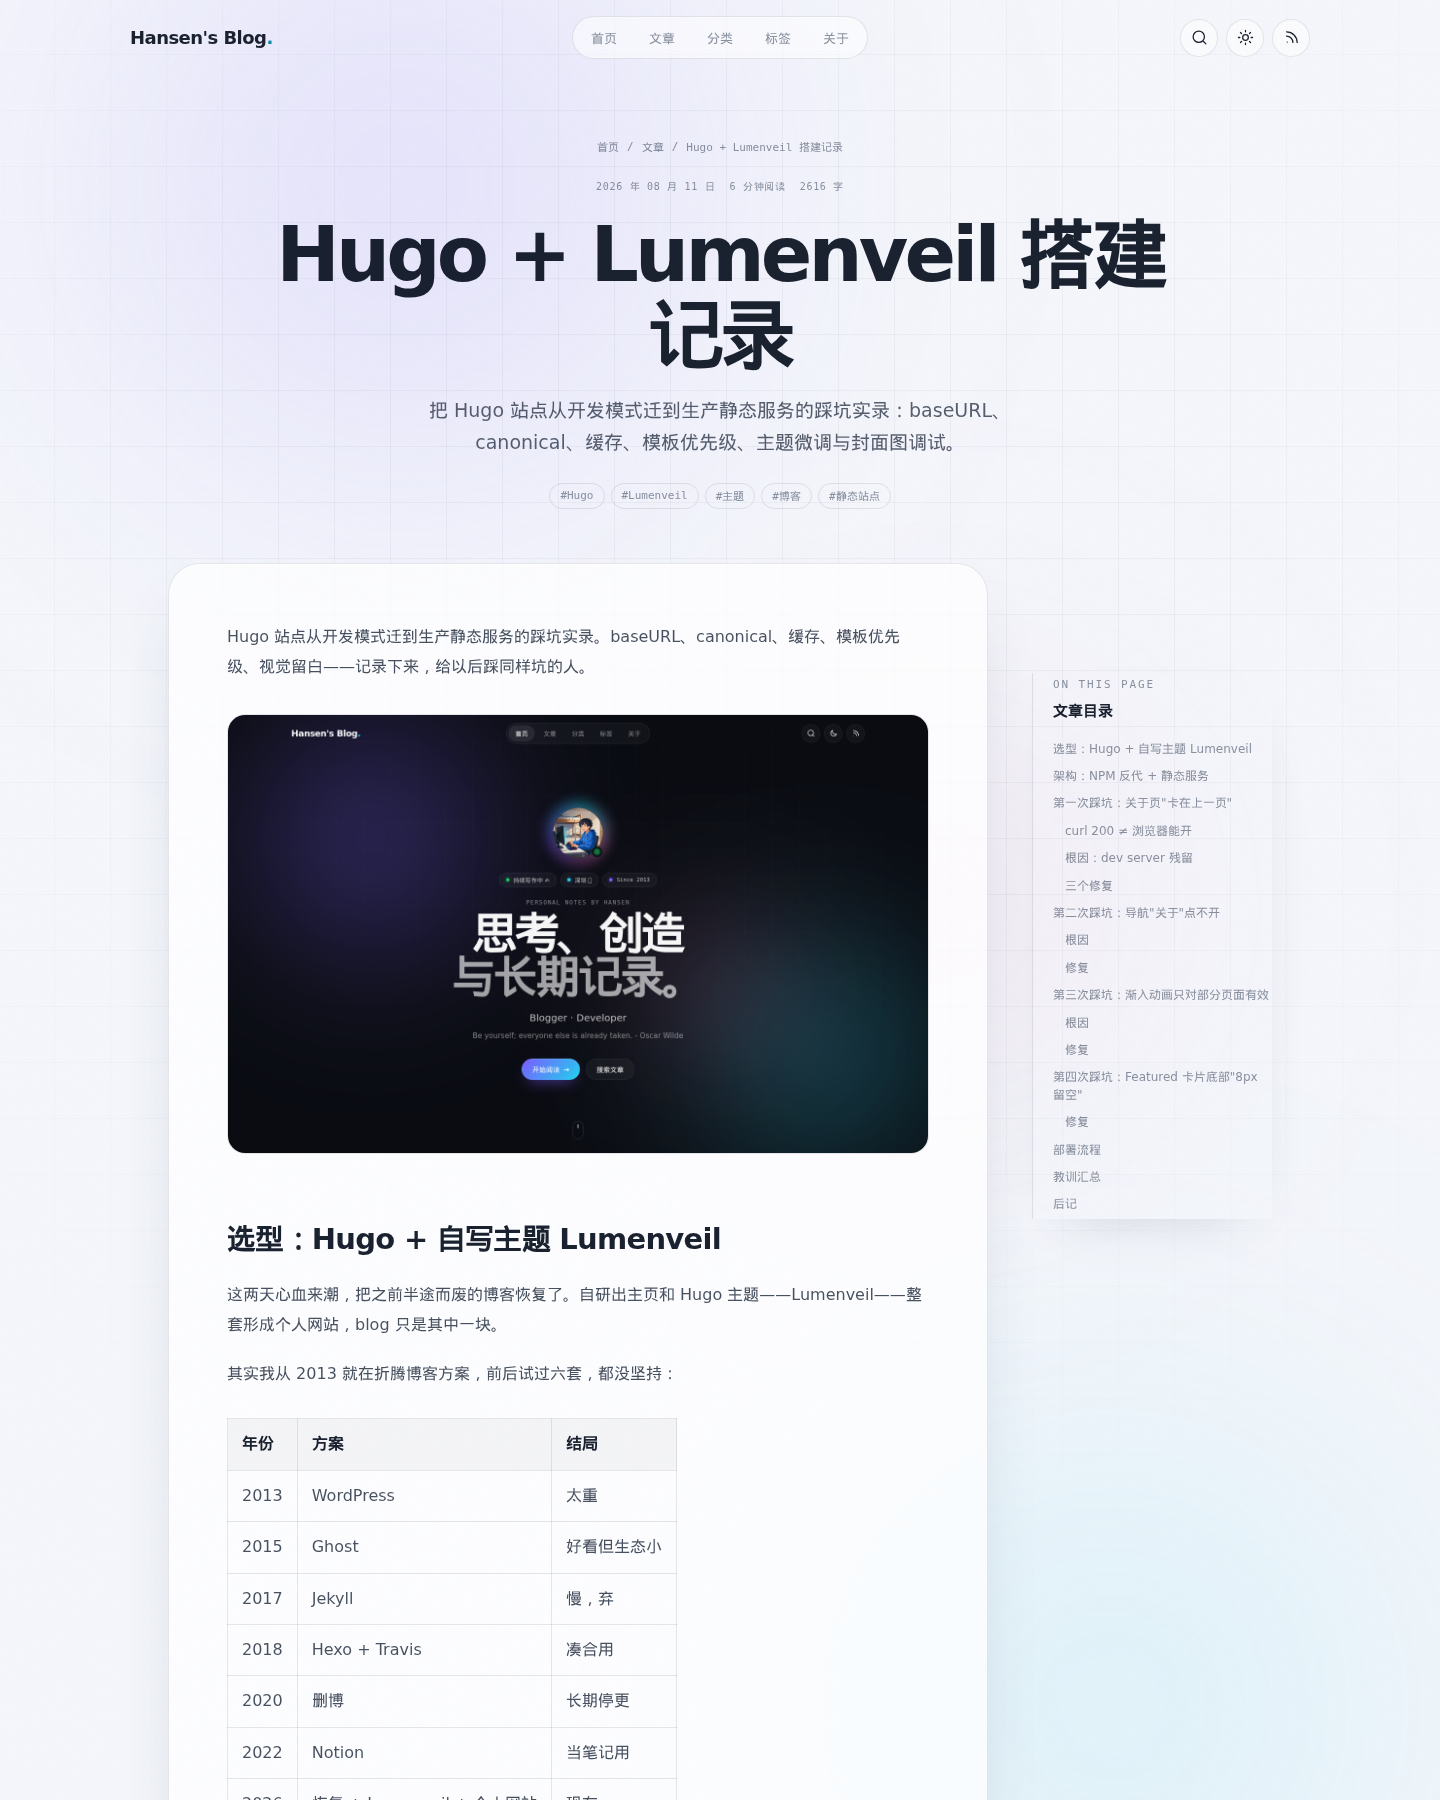
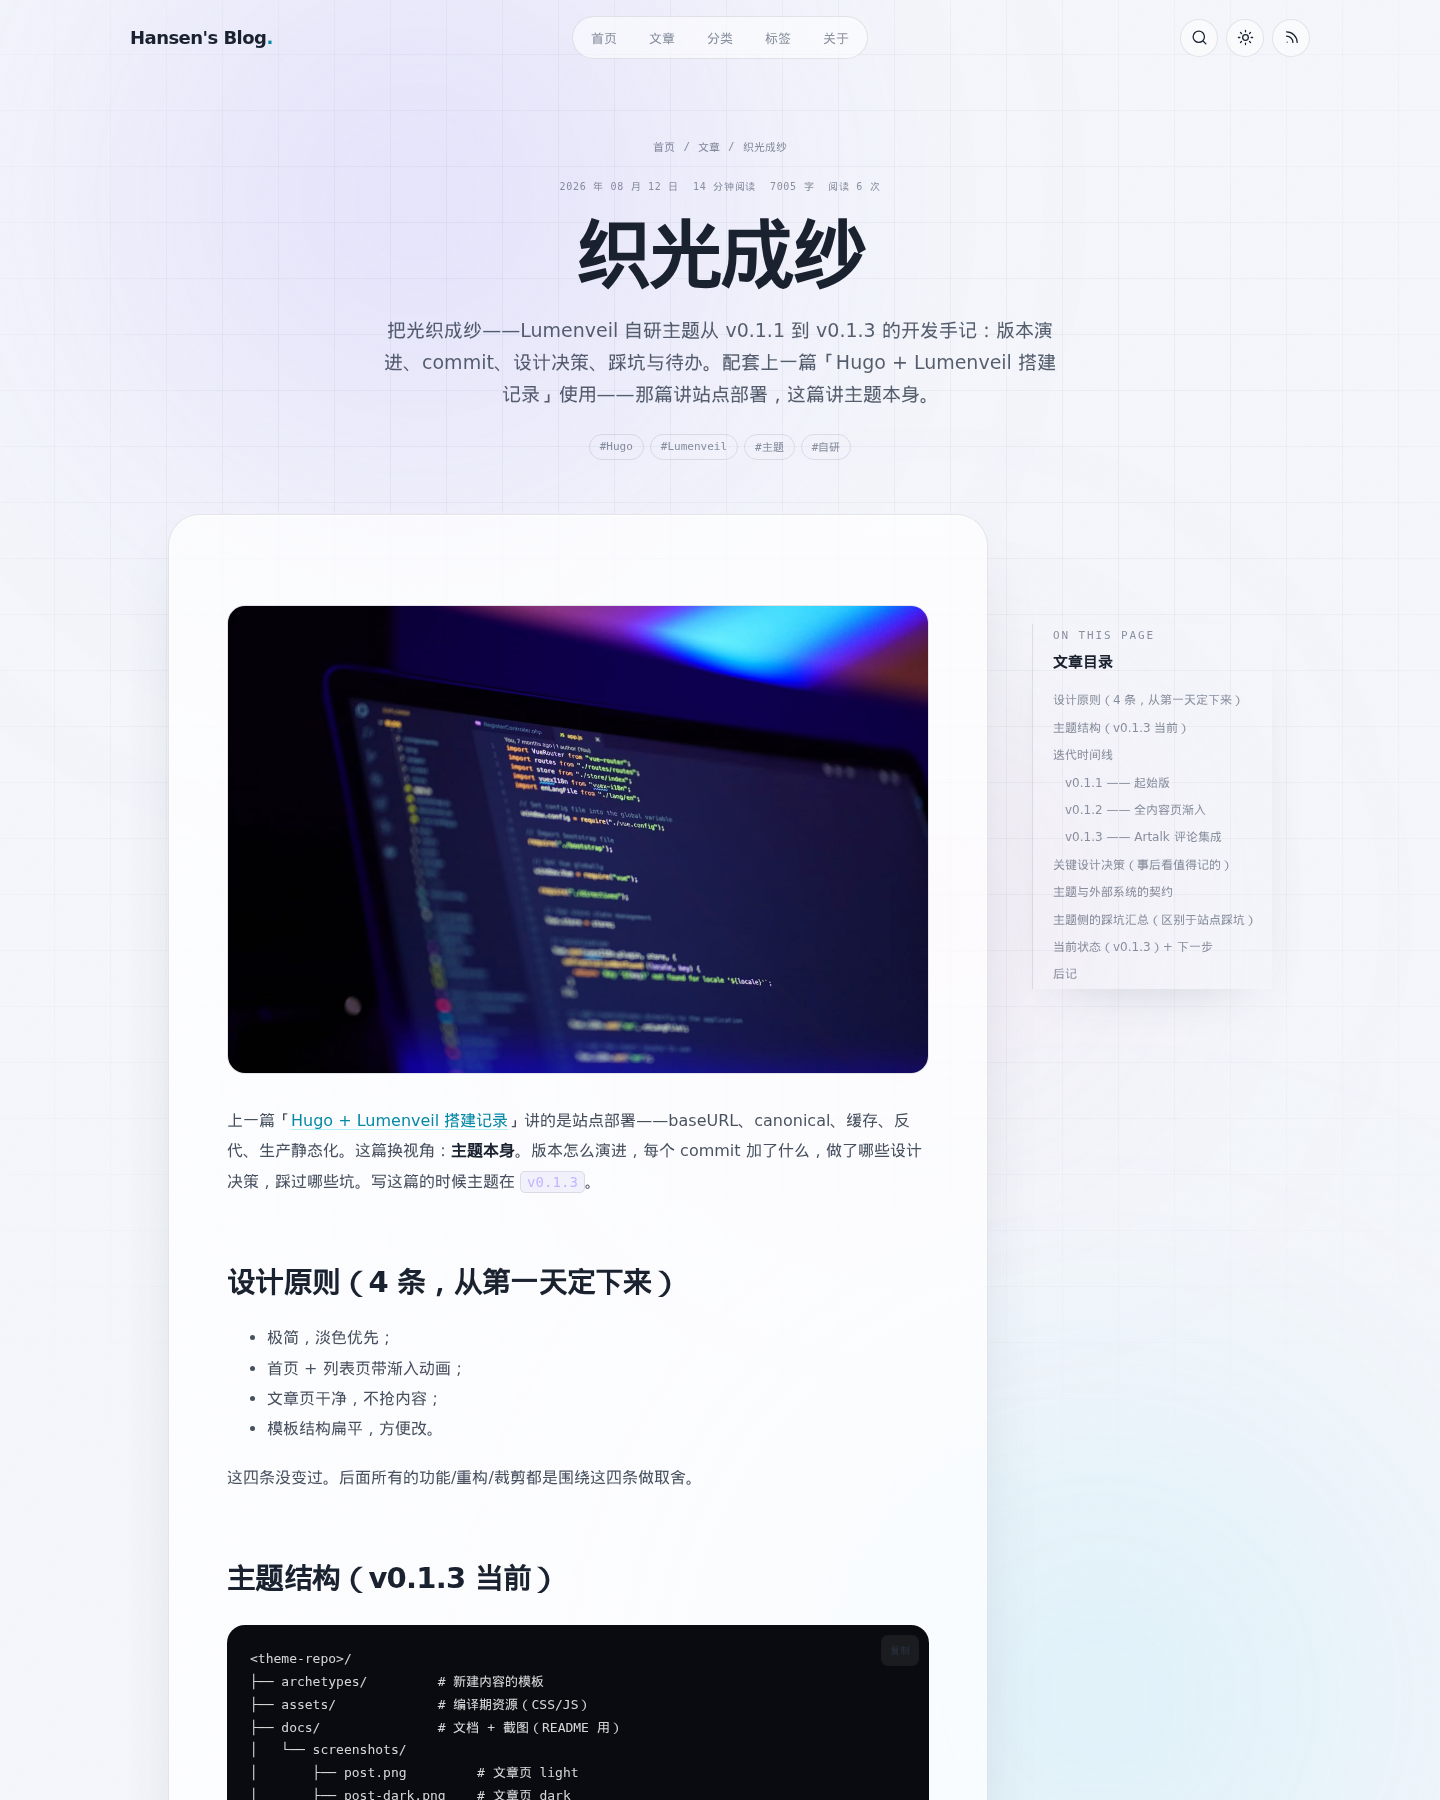
docs(theme): document busuanzi view count + refresh post screenshots
Adds the new post-meta page view count to the Features list in both
README.md and README.zh.md:

  'Article table of contents, reading time, word count, last modified
   indicator, and a real-time cross-user page view count via the
   busuanzi partial (third-party CN service)'

刷新 docs/screenshots/post.png + post-dark.png (1440x1800) 展示
busuanzi 真实跨访客计数已生效：post-meta 行末尾显示
'阅读 X 次'（数字从 busuanzi 端取，不是 localStorage 自增）。

Closes v0.1.4 doc gap — busuanzi integration 是 v0.1.4 新增的
visible feature，README 之前完全没提到。

Files changed:
  - README.md: +1 word in Features list
  - README.zh.md: same in Chinese
  - docs/screenshots/post.png: refreshed (post-meta now shows view count)
  - docs/screenshots/post-dark.png: refreshed

diff --git a/README.md b/README.md
@@ -37,7 +37,7 @@ Live preview: <https://blog.hansendong.top>
 - Automatic light and dark mode with a persistent manual switch
 - Client-side search powered by Hugo JSON output
 - Categories, tags, pagination, RSS, sitemap, and robots.txt
-- Article table of contents, reading time, word count, and last modified indicator
+- Article table of contents, reading time, word count, last modified indicator, and a real-time cross-user page view count via the busuanzi partial (third-party CN service)
 - Dynamic copyright range (from `since` to the current year) and CC BY-NC-SA 4.0 license badge in the footer
 - Syntax highlighting and one-click code or article-link copy
 - PhotoSwipe-powered image gallery shortcode with a CSS grid layout
